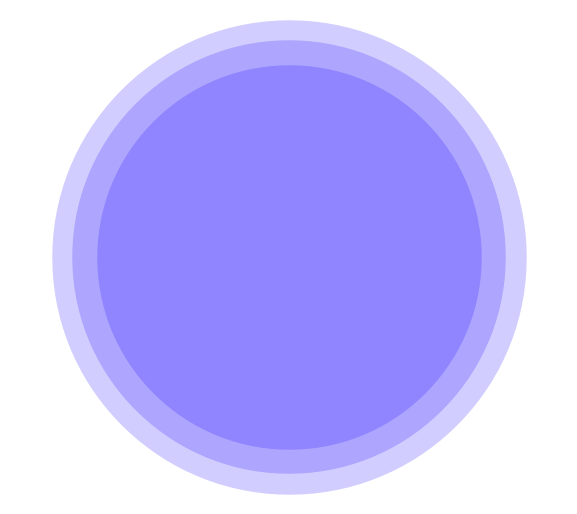
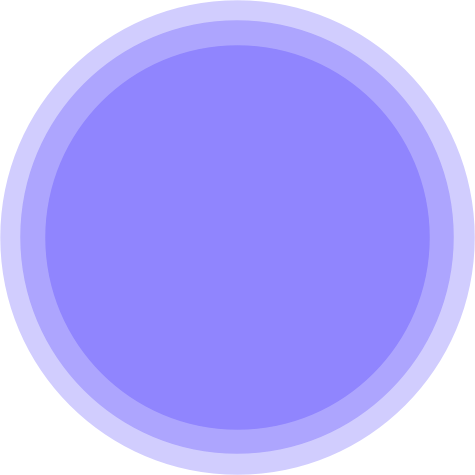
YAS

diff --git a/Starstruck/core/src/edu/cornell/gdiac/starstruck/Obstacles/PlanetList.java b/Starstruck/core/src/edu/cornell/gdiac/starstruck/Obstacles/PlanetList.java
@@ -211,16 +211,15 @@ public class PlanetList {
      * @param y Y coordinate of planet's origin
      * @param radius Planet's radius
      * @param mass Planet's mass
-     * @param scaleDraw Scale for drawing planet
      * @param grange The range from which gravity is effective for this planet
      * @param sprite Sprite to be used when drawing this planet
      * @param world World that owns this planet
      * @param vectorWorld VectorWorld that controls this planet's gravity
      */
-    public void addPlanet(float x, float y, float radius, float mass, float scaleDraw, float grange,
+    public void addPlanet(float x, float y, float radius, float mass, float grange,
                           int sprite, World world, VectorWorld vectorWorld) {
         TextureRegion texture = getPlanetTexture(sprite);
-        Planet p = new Planet(x, y, radius, mass, scaleDraw, grange, texture, world, scale, gring_texture);
+        Planet p = new Planet(x, y, radius, mass, grange, texture, world, scale, gring_texture);
         vectorWorld.addPlanet(p, mass);
         planets.add(p);
     }
@@ -238,7 +237,7 @@ public class PlanetList {
         for (int i = 0; i < planetSpecs.length; i++) {
 
             addPlanet(planetSpecs[i][0], planetSpecs[i][1], planetSpecs[i][2], planetSpecs[i][3],
-                    planetSpecs[i][4], planetSpecs[i][5], (int) planetSpecs[i][6], world, vectorWorld);
+                    planetSpecs[i][4], (int) planetSpecs[i][5], world, vectorWorld);
 
             //Vector2 pos = new Vector2(obj.getBody().getPosition().x, obj.getBody().getPosition().y - obj.getRadius());
             //vectorWorld.addPlanet(obj, PLANETS[i][3], obj.getCenter()); //Radius parameter is temporary fix for why center is off

diff --git a/Starstruck/core/src/edu/cornell/gdiac/starstruck/GameController.java b/Starstruck/core/src/edu/cornell/gdiac/starstruck/GameController.java
@@ -169,15 +169,16 @@ public class GameController extends WorldController implements ContactListener {
 
 
     // Location, radius, and drawscale of all the planets.
-    // Each row is a planet. 1st col is x, 2nd is y, 3rd is radius, 4th is mass, 5th is scale for drawing.
+    // Each row is a planet. 1st col is x, 2nd is y, 3rd is radius, 4th is mass, 5th is sprite to use and
+    // 6th is gravitational pull range.
     // Force setting mass is temporary fix -- in future add dynmaic planet to pin and fix rotation?
     // Better solution for drawing?
     private static final float[][] PLANETS = {
-            {7f, 7f, 3f, 5000f, 0.65f, 1, 0},
-            //{13f, 15f, 4f, 6000f, 0.43f, 1, 1},
-            //{30f, 5f, 4f, 6000f, 0.81f, 1, 1},
-            //{25f, 15f, 3f, 2500f, 0.43f, 1, 1},
-            //{18f, 0f, 3f, 2500f, 0.43f, 1, 1},
+            {7f, 7f, 3f, 5000f, 1, 0},
+            {13f, 15f, 4f, 6000f, 1, 1},
+            //{30f, 5f, 4f, 6000f, 1, 1},
+            //{25f, 15f, 3f, 2500f, 1, 1},
+            //{18f, 0f, 3f, 2500f, 1, 1},
     };
 
     // Location of each star (can add more fields later, SHOULD MAKE INTO A CLASS)

diff --git a/Starstruck/core/src/edu/cornell/gdiac/starstruck/Obstacles/Planet.java b/Starstruck/core/src/edu/cornell/gdiac/starstruck/Obstacles/Planet.java
@@ -30,7 +30,7 @@ public class Planet extends WheelObstacle {
      * @param radius The planet's radius
      * @param mass The planet's mass
      */
-    public Planet(float x, float y, float radius, float mass, float scaleDraw, float grange,
+    public Planet(float x, float y, float radius, float mass, float grange,
                   TextureRegion texture, World world, Vector2 scale, TextureRegion ringTexture) {
         super(x, y, radius);
         this.mass = mass;
@@ -44,7 +44,9 @@ public class Planet extends WheelObstacle {
         activatePhysics(world);
         setDrawScale(scale);
 
-        this.scaleDraw = scaleDraw;
+        //Set drawing scale
+        float newScale = (2 * radius * drawScale.x)/texture.getRegionWidth();
+        this.scaleDraw = newScale;
 
         setName("planet" + counter);
         counter++;
